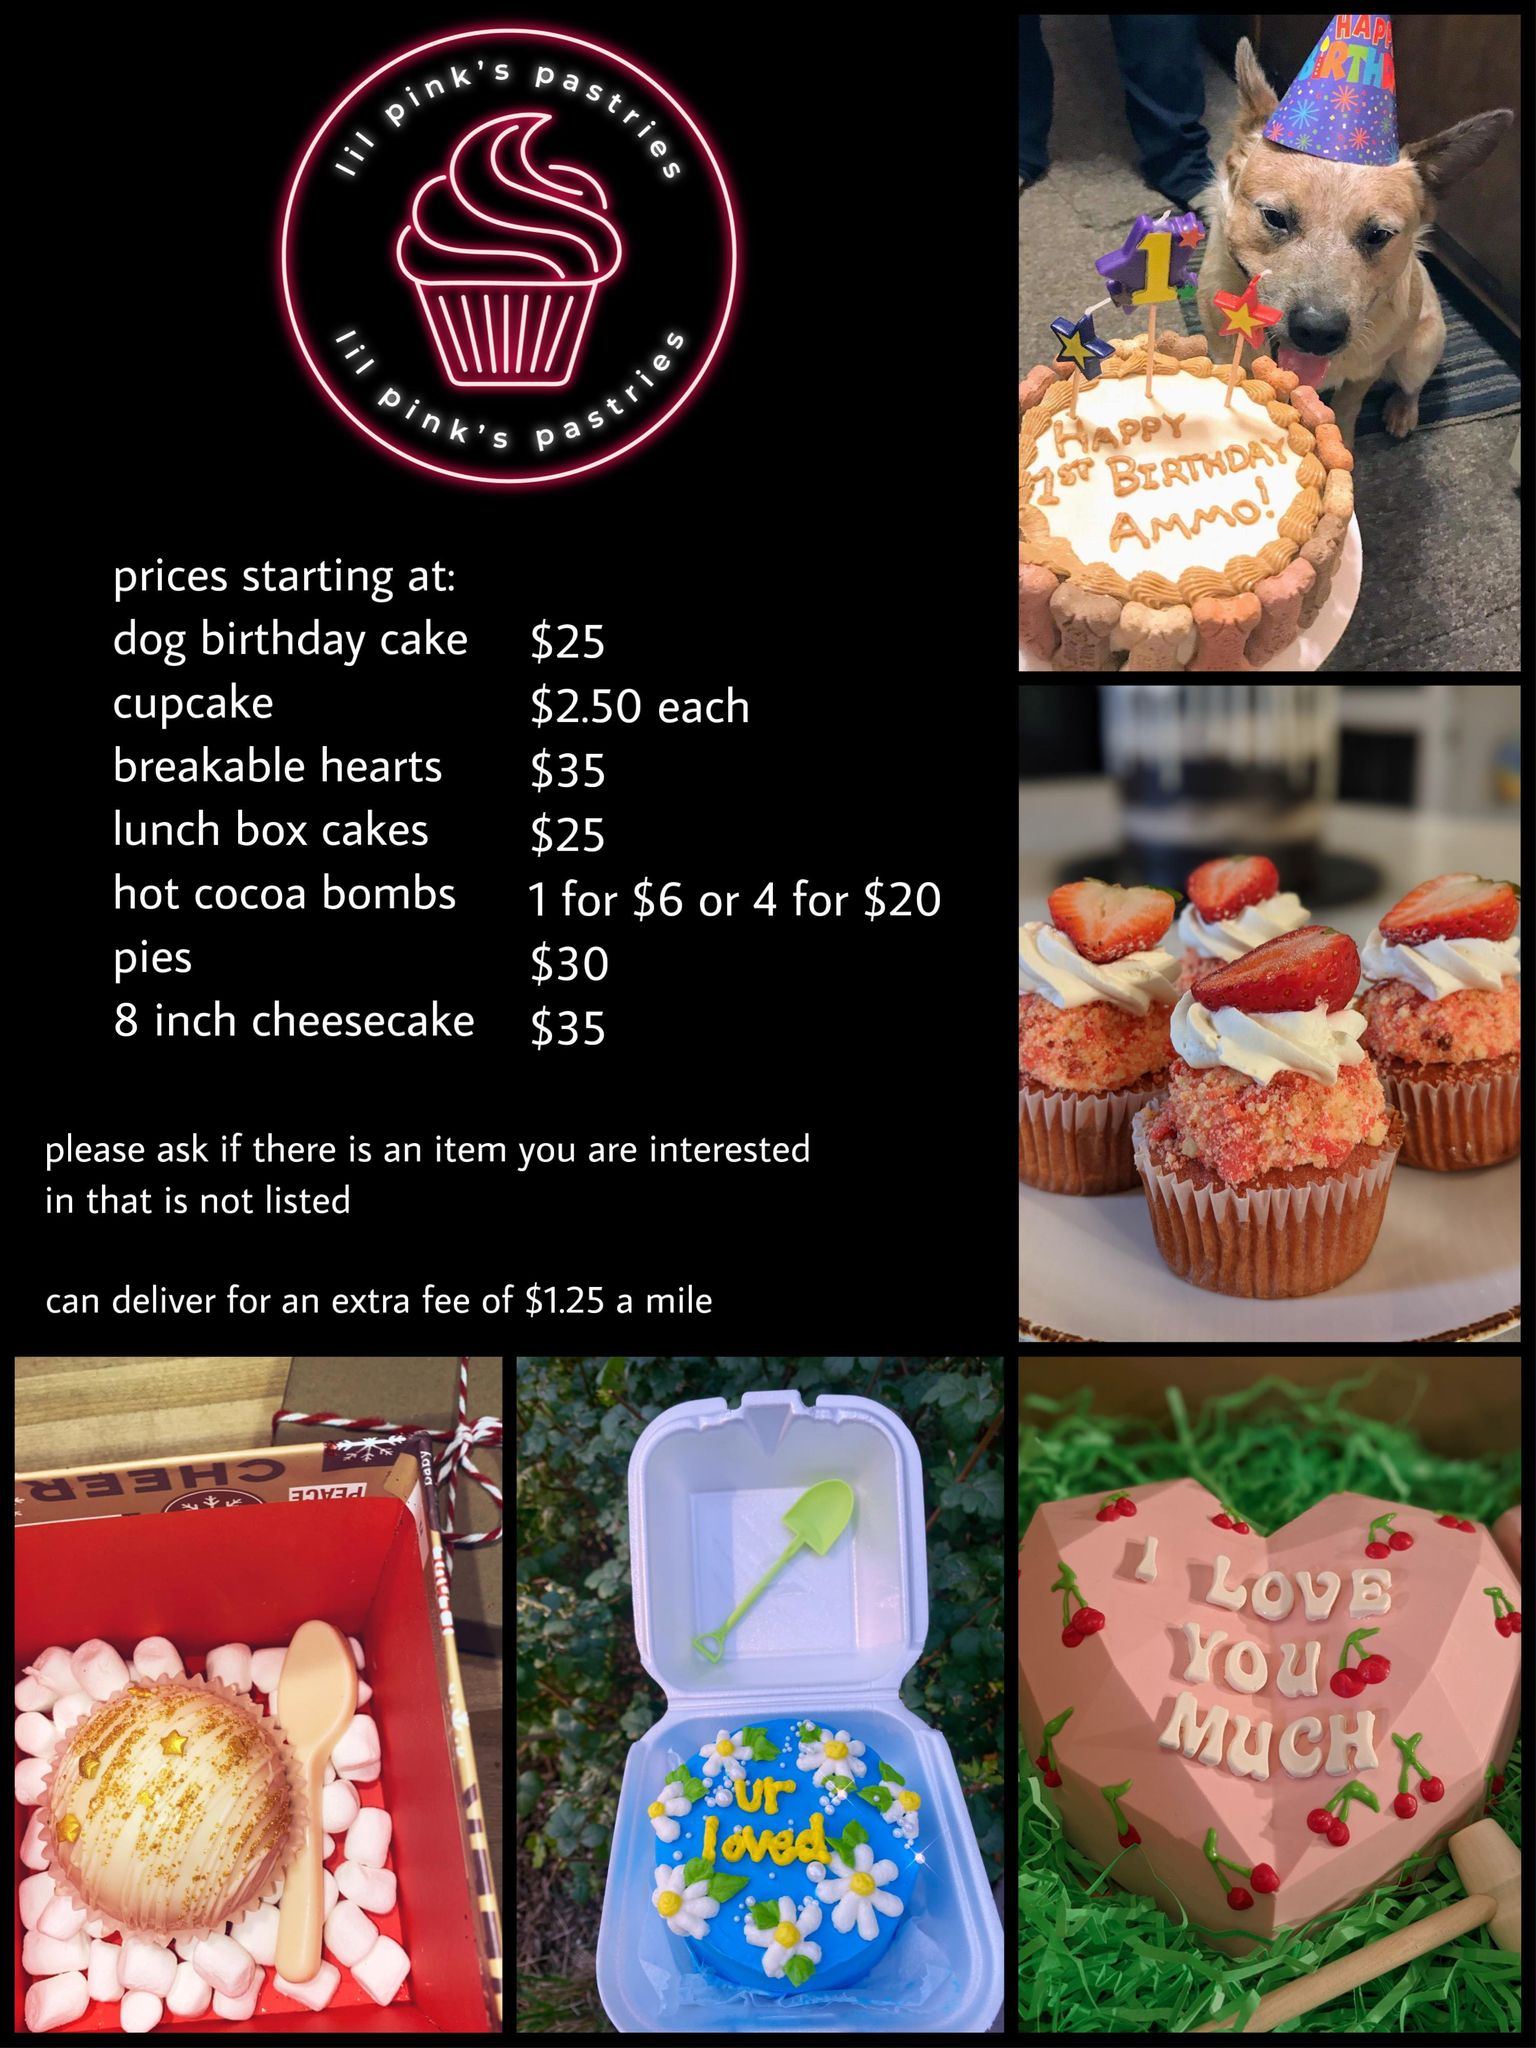
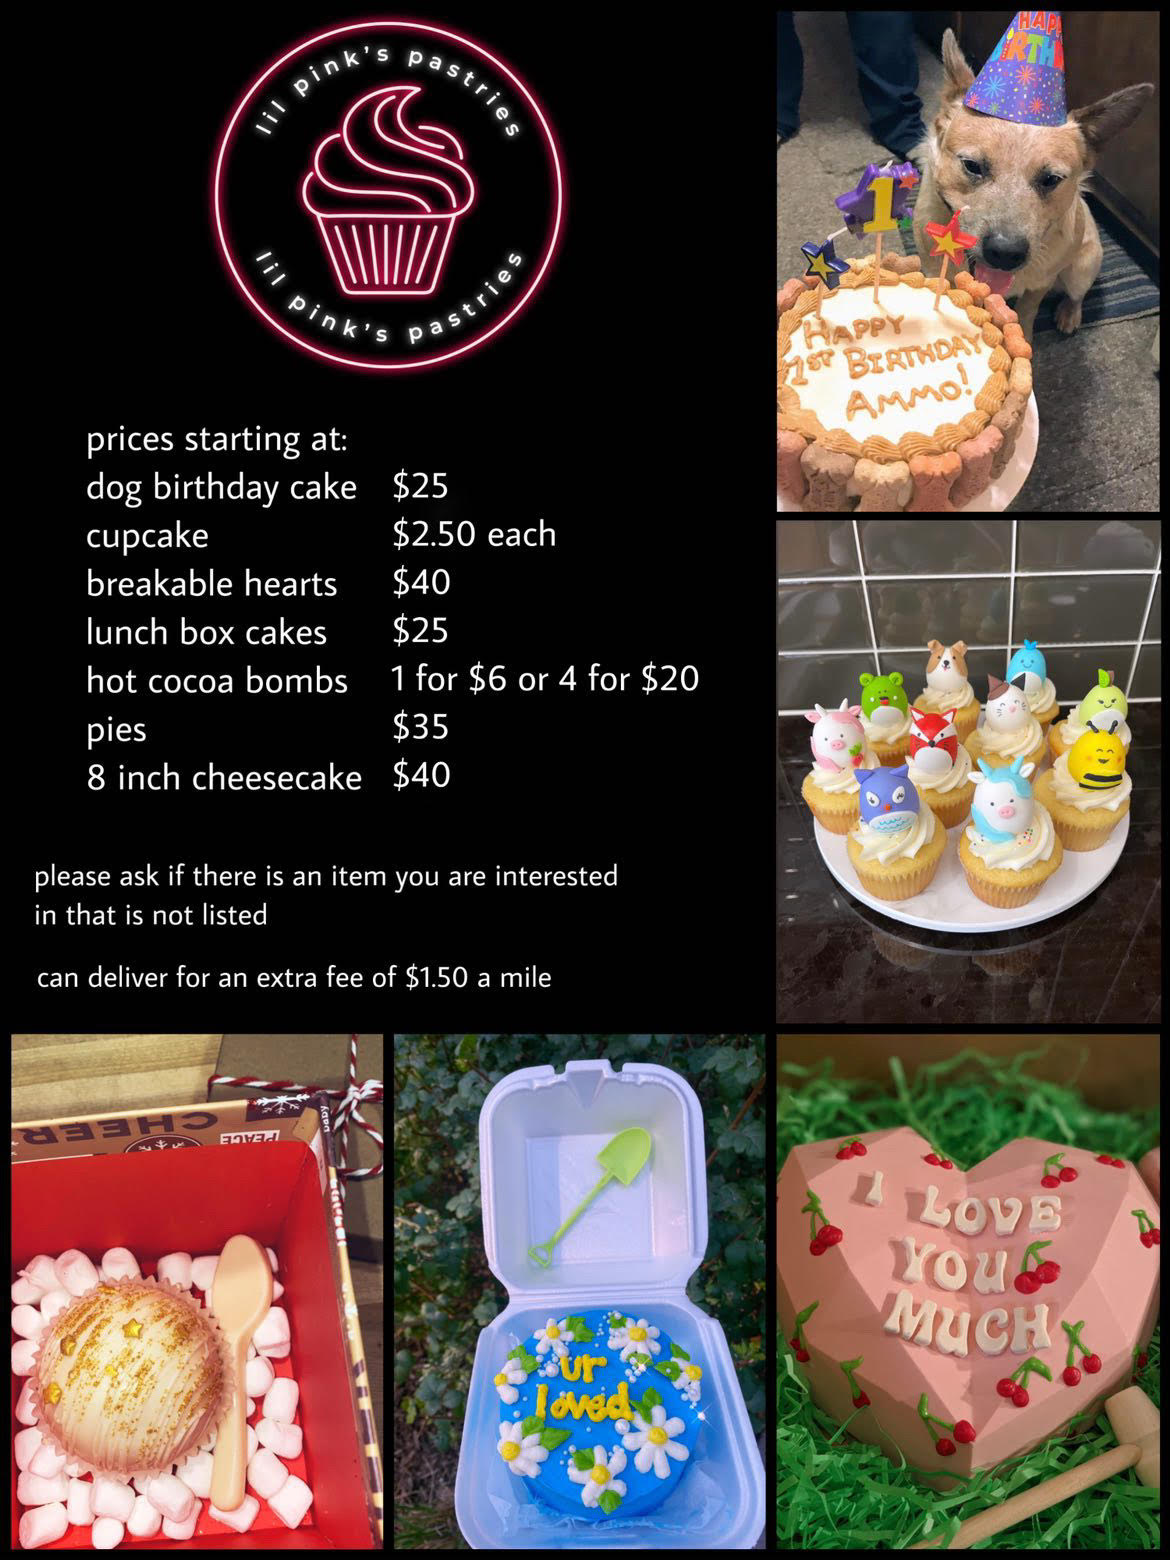
update pricing and contact page

diff --git a/src/components/contactForm.js b/src/components/contactForm.js
@@ -149,7 +149,7 @@ export default class ContactForm extends React.Component {
               aria-required="true"
             />
           </div>
-          <div className="formbuilder-select form-group field-userMiscDesserts">
+          {/* <div className="formbuilder-select form-group field-userMiscDesserts">
             <label
               htmlFor="userMiscDesserts"
               className="formbuilder-select-label"
@@ -306,7 +306,7 @@ export default class ContactForm extends React.Component {
                 8, 10, &amp; 12 in.
               </option>
             </select>
-          </div>
+          </div> */}
           <div className="formbuilder-textarea form-group field-userOrderDetails">
             <label
               htmlFor="userOrderDetails"
